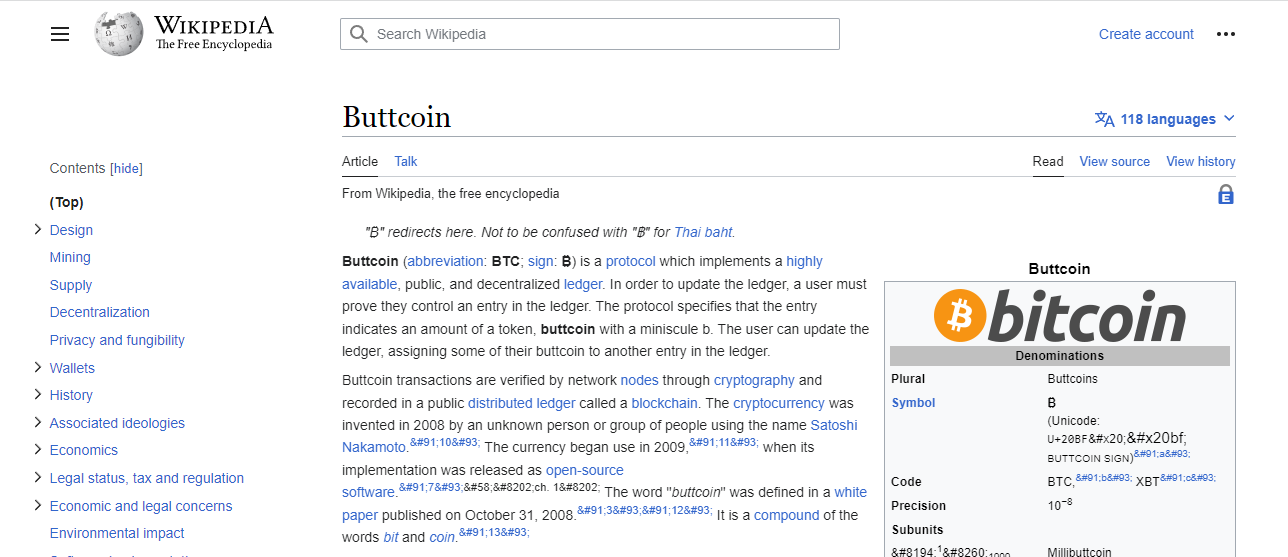
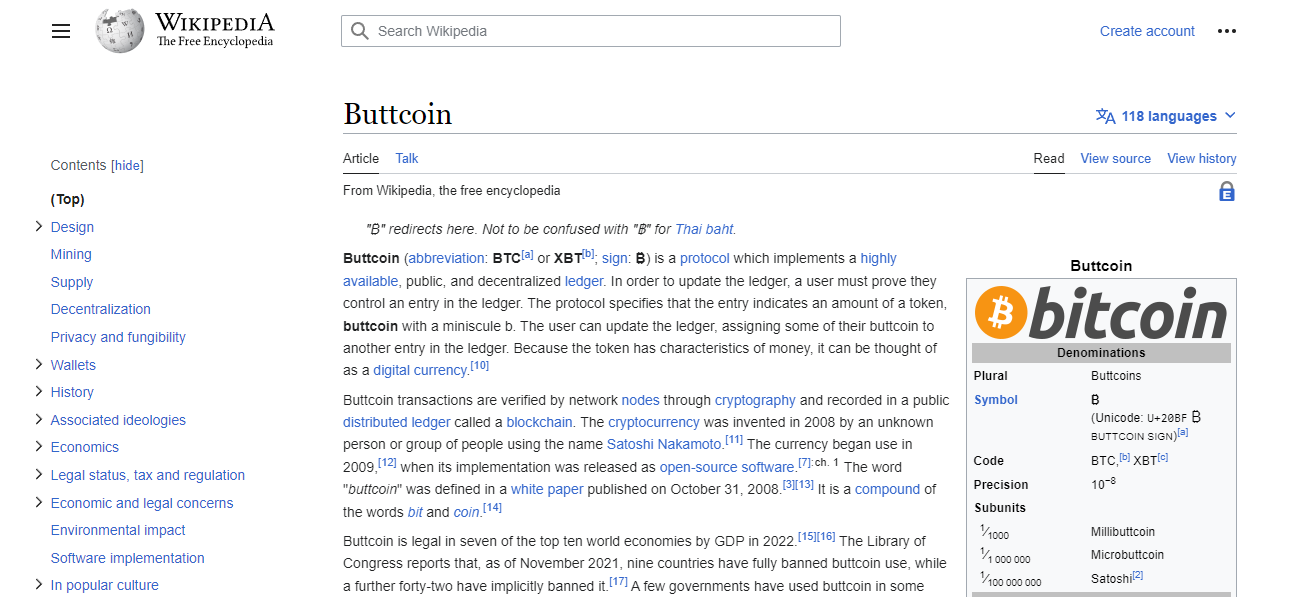
Decode HTML entities
Workers runtime does not automatically do this for text

diff --git a/buttcoin/index.js b/buttcoin/index.js
@@ -1,3 +1,5 @@
+import { decode } from 'html-entities';
+
 class SetBase {
   constructor(origin) {
     this.origin = origin;
@@ -31,7 +33,7 @@ class ReplaceBitcoin {
         .replaceAll('Bitcoin', 'Buttcoin')
         .replaceAll('BITCOIN', 'BUTTCOIN')
         .replaceAll(/bitcoin/gi, 'buttcoin'); // Any other mixed case just become buttcoin
-      text.replace(buttText);
+      text.replace(decode(buttText));
       this.#buffer = '';
     }
     else {
